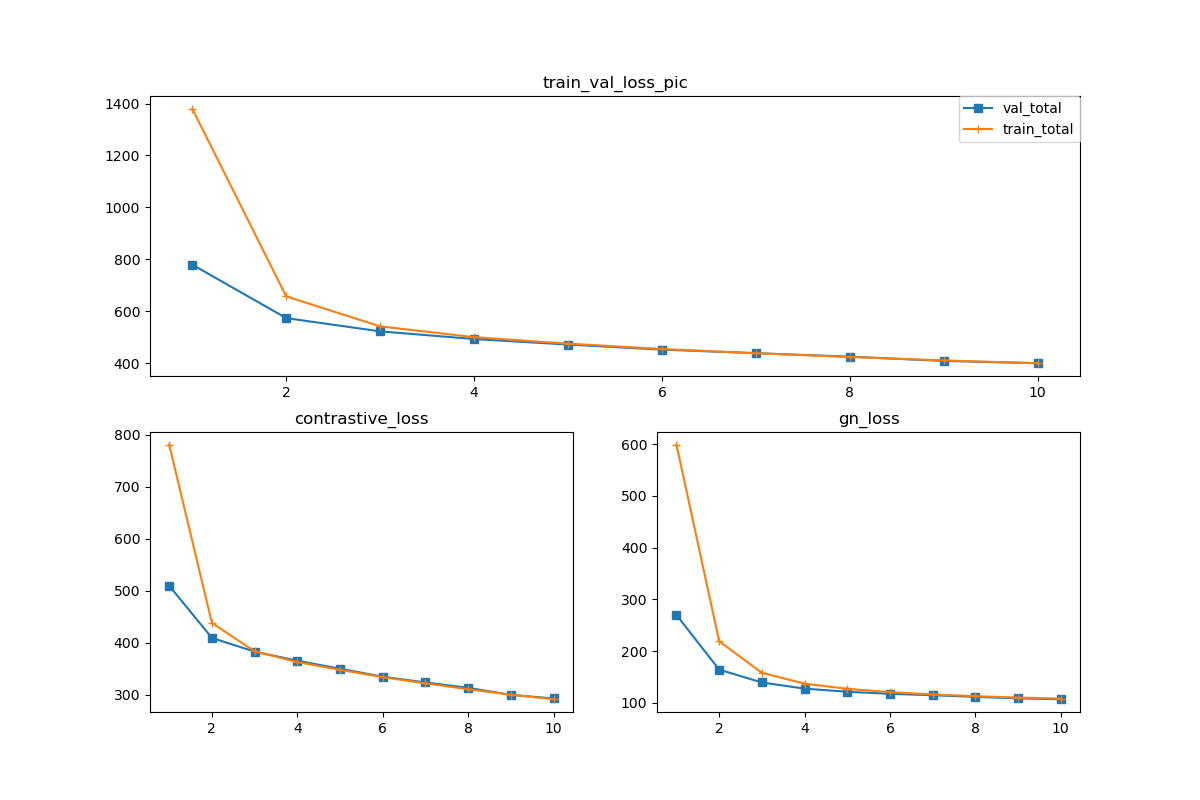
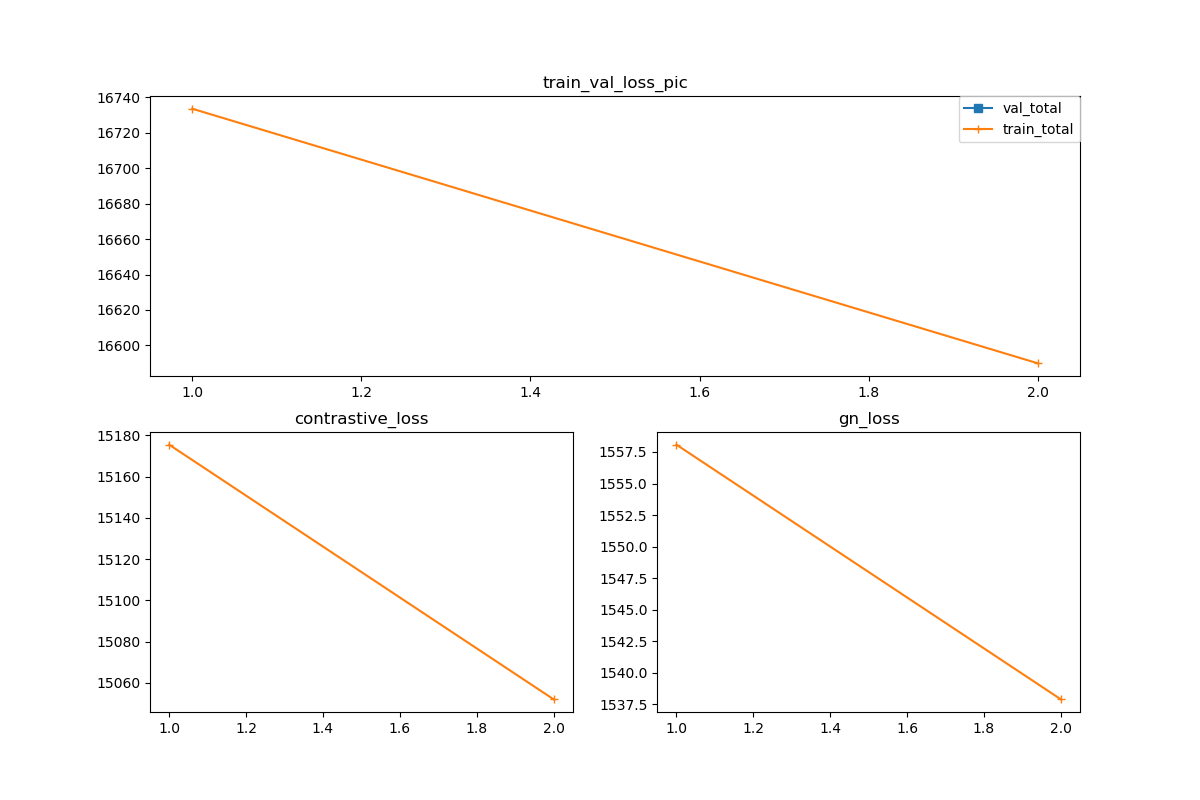
add args consloss lamda, num_matches

diff --git a/network/gn_loss.py b/network/gn_loss.py
@@ -1,7 +1,6 @@
 import torch
 import torch.nn as nn
 import numpy as np
-import torchsnooper
 from utils import MyHardNegativePairSelector, bilinear_interpolation, batched_eye_like, torch_gradient
 
 cuda = torch.cuda.is_available()
@@ -15,11 +14,12 @@ class GNLoss(nn.Module):
     GN loss function.
     '''
 
-    def __init__(self, margin=1.0, lamda=0.3, img_scale=2):
+    def __init__(self, margin=1.0, contrastive_lamda = 100, gn_lamda=0.3, img_scale=2):
         super(GNLoss, self).__init__()
         self.margin = margin
         self.pair_selector = MyHardNegativePairSelector()
-        self.lamda = lamda
+        self.gn_lamda = gn_lamda
+        self.contrastive_lamda = contrastive_lamda
         self.img_scale = img_scale  # original colored image is scaled by a factor img_scale.
 
     def extract_features(self, f, indices):
@@ -234,8 +234,8 @@ class GNLoss(nn.Module):
 
             '''compute gn loss'''
             loss_gn = self.compute_gn_loss(fa_sliced_pos, F_b[i], positive_matches['b'] / (level * self.img_scale), level)  # //4
-            loss = 100*(loss_pos + loss_neg) + (self.lamda * loss_gn) + loss
-            contras_loss = 100*(loss_pos + loss_neg) + contras_loss
-            gnloss = (self.lamda * loss_gn) + gnloss
+            loss = self.contrastive_lamda*(loss_pos + loss_neg) + (self.gn_lamda * loss_gn) + loss
+            contras_loss = self.contrastive_lamda*(loss_pos + loss_neg) + contras_loss
+            gnloss = (self.gn_lamda * loss_gn) + gnloss
         # print('contrastive loss: {}, gn loss: {}'.format((loss_pos + loss_neg), self.lamda * loss_gn))
         return loss, contras_loss, gnloss

diff --git a/run.py b/run.py
@@ -31,7 +31,10 @@ parser.add_argument('--schedule_lr_fraction', type=float, default=1)
 parser.add_argument('--scale', type=int, default = 2, help="Scaling factor for input image")
 parser.add_argument('--save_root', type=str, default = '/local/home/lixxue/gnnet/gn_net_data')
 parser.add_argument('--gn_loss_lamda', type=float, default=0.005)
+parser.add_argument('--contrastive_lamda', type=float, default=1000)
 parser.add_argument('--weight_decay', type=float, default=0.001)
+parser.add_argument('--num_matches', type=float, default=2000)
+
 
 args = parser.parse_args()
 # wandb.init(config=args)
@@ -76,7 +79,8 @@ dataset = CMUDataset(root=args.dataset_root,
                      cmu_slice=args.slice,
                      queries_folder=args.query_folder,
                      transform=args.transform,
-                     img_scale=args.scale
+                     img_scale=args.scale,
+                     num_matches=args.num_matches
                      )
 
 torch.manual_seed(0)
@@ -98,7 +102,7 @@ model = GNNet(embedding_net)
 model = model.to(device)
 # set up loss
 margin = 1.
-loss_fn = GNLoss(margin=1, lamda=args.gn_loss_lamda, img_scale=args.scale)
+loss_fn = GNLoss(margin=1, contrastive_lamda=args.contrastive_lamda, gn_lamda=args.gn_loss_lamda, img_scale=args.scale)
 optimizer = optim.Adam(model.parameters(), lr=args.lr, weight_decay=args.weight_decay)
 scheduler = optim.lr_scheduler.StepLR(optimizer, args.schedule_lr_frequency, gamma=args.schedule_lr_fraction,
                                       last_epoch=-1)  # optional

diff --git a/cmu_dataset.py b/cmu_dataset.py
@@ -39,7 +39,8 @@ class CMUDataset(Dataset):
                  cmu_slice_all: bool = True,
                  cmu_slice: int = None,
                  transform=None,
-                 img_scale: int = None
+                 img_scale: int = None,
+                 num_matches: int = None
                  ):
         self._data = {
             'name': 'cmu',
@@ -51,7 +52,8 @@ class CMUDataset(Dataset):
             'queries_folder': queries_folder,
             'image_pairs_name': None,
             'corres_pos_all': None,
-            'scale': img_scale
+            'scale': img_scale,
+            'num_matches': num_matches
         }
         if not cmu_slice_all:
             self._data['slice_folder'] = 'slice{}'.format(cmu_slice)
@@ -122,8 +124,8 @@ class CMUDataset(Dataset):
         img_b = self._data['image_pairs_name']['b'][idx]
         a = self._data['corres_pos_all']['a'][idx].squeeze()
         b = self._data['corres_pos_all']['b'][idx].squeeze()
-        pos_a, pos_b = random_select_positive_matches(a, b, num_of_pairs=2000)
-        neg_a, neg_b = random_select_negative_matches(a, b, num_of_pairs=2000)
+        pos_a, pos_b = random_select_positive_matches(a, b, num_of_pairs=self._data['num_matches'])
+        neg_a, neg_b = random_select_negative_matches(a, b, num_of_pairs=self._data['num_matches'])
         corres_ab_pos = {'a': pos_a, 'b': pos_b}
         corres_ab_neg = {'a':neg_a, 'b':neg_b}
         if self.transform:

diff --git a/trainer.py b/trainer.py
@@ -13,7 +13,7 @@ device = torch.device("cuda:0" if cuda else "cpu")
 
 
 def fit(train_loader, val_loader, model, loss_fn, optimizer, scheduler, n_epochs, cuda, log_interval,
-        validation_frequency, save_root, init,
+        validation_frequency, save_root, init, 
         start_epoch=0):
     """
     Loaders, model, loss function and metrics should work together for a given task,
